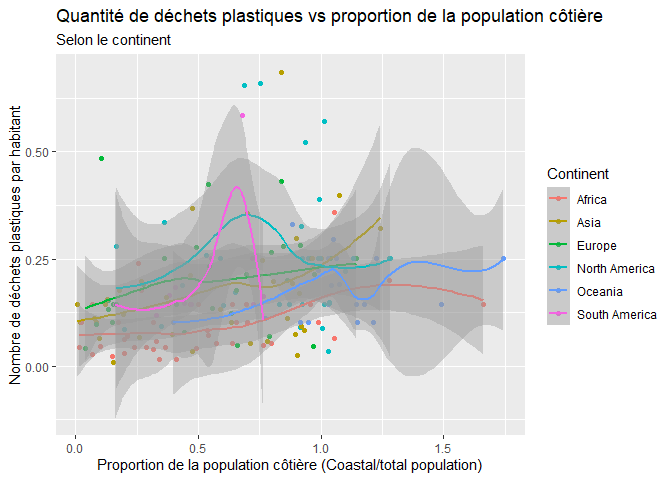
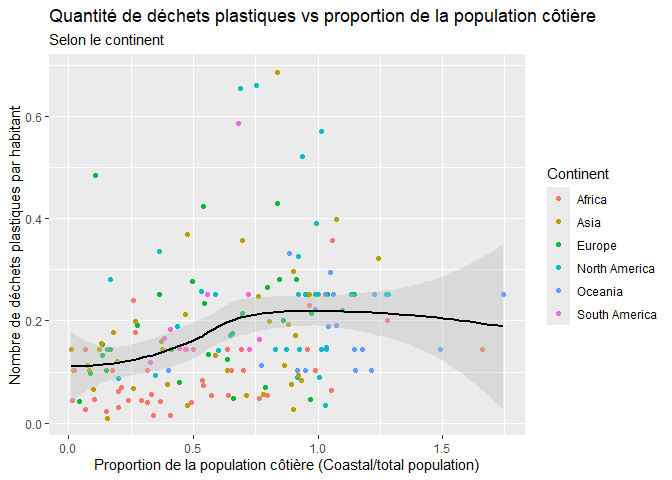
Mise à jour conclusion

diff --git a/lab-02.md b/lab-02.md
@@ -164,22 +164,32 @@ identique.
 
 ## Conclusion
 
+Je remarque que les points représentent bien la relation, car ils se
+regroupent autour de la courbe de tendance, mais pas d’une manière
+linéaire. Les habitants de l’asie et de l’océanie semblent avoir la plus
+grande quantité de déchets, la plupart des habitants des continents se
+situent entre 0 et 0,3 kg de déchets par jour et l’Afrique a l’air
+d’être le continent le moins pire avec les plus bas taux de déchets en
+dessous de la courbe de tendance.
+
 ``` r
-plastic_waste_coastal <- plastic_waste %>% 
+ggplot(data=plastic_waste %>% 
   mutate(coastal_pop_prop = coastal_pop / total_pop) %>%
-  filter(plastic_waste_per_cap < 3)
-ggplot(plastic_waste_coastal, aes(x = coastal_pop_prop,
-                     y = plastic_waste_per_cap ,
+  filter(plastic_waste_per_cap < 3), aes(x = coastal_pop_prop,
+                     y = plastic_waste_per_cap,
                      colour = continent)) +
   geom_point() +
+  geom_smooth(method = "loess", 
+               se=TRUE, 
+               colour="black", 
+               fill="grey") +
   labs(title = "Quantité de déchets plastiques vs proportion de la population côtière",
        subtitle = "Selon le continent",
        x = "Proportion de la population côtière (Coastal/total population)", y = "Nombre de déchets plastiques par habitant",
-       colour = "Continent")+
-geom_smooth()
+       colour = "Continent")
 ```
 
-    ## `geom_smooth()` using method = 'loess' and formula = 'y ~ x'
+    ## `geom_smooth()` using formula = 'y ~ x'
 
     ## Warning: Removed 10 rows containing non-finite outside the scale range
     ## (`stat_smooth()`).
@@ -187,4 +197,4 @@ geom_smooth()
     ## Warning: Removed 10 rows containing missing values or values outside the scale range
     ## (`geom_point()`).
 
-![](lab-02_files/figure-gfm/recreate-viz-1.png)<!-- --> interprétation ?
+![](lab-02_files/figure-gfm/recreate-viz-1.png)<!-- -->
